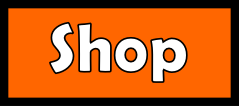
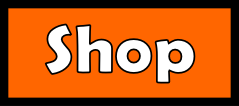
all buttons in bac selection

Changed region(s): [[0.1757, 0.1981, 0.8201, 0.7925]]

diff --git a/Germs/Assets/Scripts/Map/Map_GUI.cs b/Germs/Assets/Scripts/Map/Map_GUI.cs
@@ -14,10 +14,10 @@ public class Map_GUI : MonoBehaviour {
 
 	public Texture2D goldIcon;
 	public Texture2D xpIcon;
-	public Texture2D shopButton;
 
 	public GUIStyle bigNumbers;
 	public GUIStyle trainerHover;
+	public GUIStyle shopHover;
 	public AudioSource clickSound;
 
 	//GameStateObject
@@ -54,46 +54,36 @@ public class Map_GUI : MonoBehaviour {
 
 		//shop buttons
 
-		if (GUI.Button (new Rect (0,0,Screen.height/6,Screen.height/12), shopButton, bigNumbers)) {
+		if (GUI.Button (new Rect (0 + Screen.height/6,Screen.height - Screen.height/12,Screen.height/6,Screen.height/12), "", shopHover)) {
 			clickSound.Play ();	
 			Debug.Log ("Shop");
 		}
-		if (GUI.Button (new Rect (Screen.width - Screen.height/6,0,Screen.height/6,Screen.height/12), "", trainerHover)) {
+		if (GUI.Button (new Rect (0,Screen.height - Screen.height/12,Screen.height/6,Screen.height/12), "", trainerHover)) {
 			clickSound.Play ();	
 			Debug.Log ("Training");
 		}
-		if (GUI.Button (new Rect (0,Screen.height - Screen.height/12,Screen.height/4,Screen.height/12), "Choose bacs")) {
-			clickSound.Play ();
-			Debug.Log ("Choose bacteria");
-		}
 
 		//frame for chosen bacteria
-		if (selectedBacsTest[0] != null || selectedBacsTest[0] != "") {
 			if (GUI.Button (new Rect (Screen.width/2 - Screen.width/4,Screen.height - Screen.height/10,Screen.width/12,Screen.height/10), selectedBacsTest[0])) {
 				clickedIndex = 0;
 				bacteriaChooserOn();
 			}
-		} else {
-			if (GUI.Button (new Rect (Screen.width/2 - Screen.width/4,Screen.height - Screen.height/10,Screen.width/12,Screen.height/10), "1")) {
-				clickedIndex = 0;
-				bacteriaChooserOn();
-			}
-		}
-		if (selectedBacsTest[0] != null || selectedBacsTest[1] != "") {
 			if (GUI.Button (new Rect (Screen.width/2 - Screen.width/6,Screen.height - Screen.height/10,Screen.width/12,Screen.height/10), selectedBacsTest[1])) {
 				clickedIndex = 1;
 				bacteriaChooserOn();
 			}
-		} else {
-			if (GUI.Button (new Rect (Screen.width/2 - Screen.width/6,Screen.height - Screen.height/10,Screen.width/12,Screen.height/10), "2")) {
-				clickedIndex = 1;
+			if (GUI.Button (new Rect (Screen.width/2 - Screen.width/12,Screen.height - Screen.height/10,Screen.width/12,Screen.height/10), selectedBacsTest[2])) {
+				clickedIndex = 2;
 				bacteriaChooserOn();
 			}
-		}
-
-		GUI.Box (new Rect (Screen.width/2 - Screen.width/12,Screen.height - Screen.height/10,Screen.width/12,Screen.height/10), "3");
-		GUI.Box (new Rect (Screen.width/2,Screen.height - Screen.height/10,Screen.width/12,Screen.height/10), "4");
-		GUI.Box (new Rect (Screen.width/2 + Screen.width/12,Screen.height - Screen.height/10,Screen.width/12,Screen.height/10), "5");
+			if (GUI.Button (new Rect (Screen.width/2,Screen.height - Screen.height/10,Screen.width/12,Screen.height/10), selectedBacsTest[3])) {
+				clickedIndex = 3;
+				bacteriaChooserOn();
+			}
+			if (GUI.Button (new Rect (Screen.width/2 + Screen.width/12,Screen.height - Screen.height/10,Screen.width/12,Screen.height/10), selectedBacsTest[4])) {
+				clickedIndex = 4;
+				bacteriaChooserOn();
+			}
 
 		if (bacChooser) {
 			var pos = 0;
@@ -107,8 +97,8 @@ public class Map_GUI : MonoBehaviour {
 				}
 			}
 		}
-	}
 
+	}
 	void bacteriaChooserOn() {
 		bacChooser = true;
 		allBacsTest = battleTracker.gameObject.GetComponent<storeBattleStatus>().getAllBacsTest();

diff --git a/Germs/Assets/Scripts/testLevels/levelComplete.cs b/Germs/Assets/Scripts/testLevels/levelComplete.cs
@@ -5,6 +5,7 @@ using System.Collections.Generic;
 
 public class levelComplete : MonoBehaviour {
 	public List<GameObject> allEnemies = new List<GameObject>();
+	public List<string> selectedBacsTest = new List<string>();
 	public bool enemiesAlive;
 	public bool unitsAlive;
 
@@ -16,6 +17,7 @@ public class levelComplete : MonoBehaviour {
 	// Use this for initialization
 	void Start () {
 		battleTracker = GameObject.Find ("BattleTracker").transform;
+		selectedBacsTest = battleTracker.gameObject.GetComponent<storeBattleStatus>().getSelectedBacsTest();
 		enemiesAlive = true;
 		unitsAlive = true;
 	}
@@ -33,6 +35,7 @@ public class levelComplete : MonoBehaviour {
 	}
 
 	void OnGUI() {
+		GUI.Label( new Rect(0, 0, 100, 100), "Your bacteria: "+selectedBacsTest[0]+selectedBacsTest[1]+selectedBacsTest[2]+selectedBacsTest[3]+selectedBacsTest[4]);
 		if (GUI.Button (new Rect (0,Screen.height - 50,100,50), "Return to Map")) {
 			levelInterrupted();
 			Application.LoadLevel ("Map");
